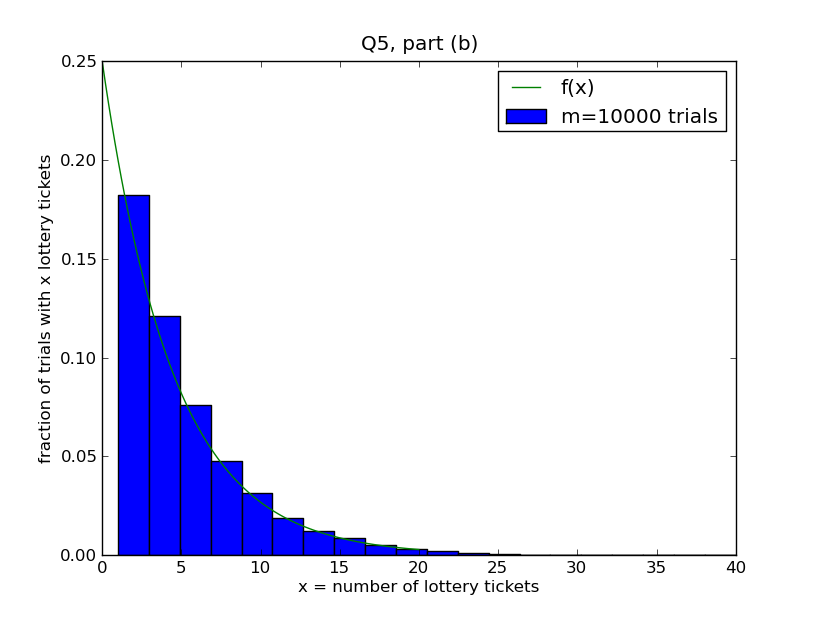
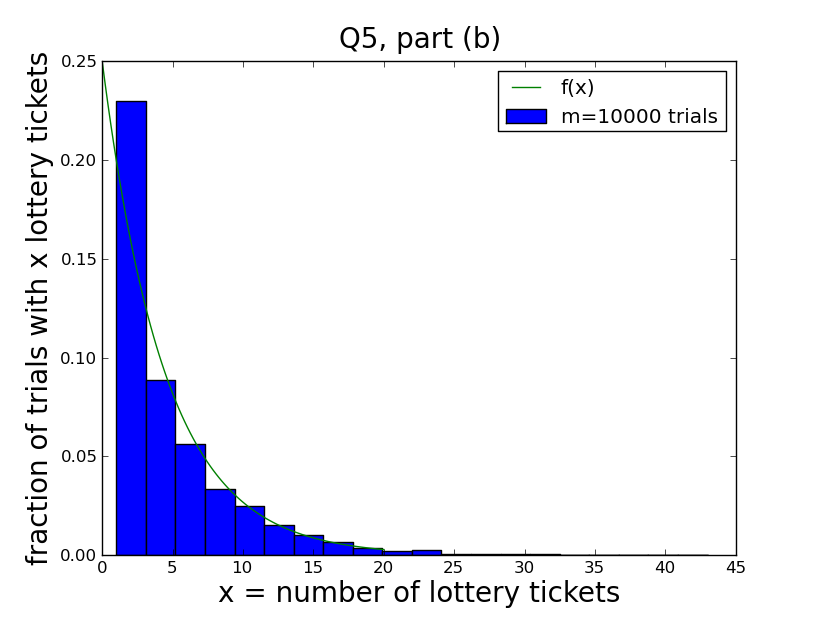
updating hw12 solutions

diff --git a/hws/12/hw12.tex b/hws/12/hw12.tex
@@ -10,6 +10,7 @@
 %% \usepackage{epstopdf}
 \usepackage{color}
 \usepackage[]{amsmath}
+\usepackage{cancel}
 %% \usepackage{graphicx}
 %% \usepackage{amssymb}
 %% \usepackage{parskip}
@@ -30,7 +31,7 @@
 \motivationtrue
 \motivationfalse
 \solutionstrue
-\solutionsfalse %flag for solutions
+%\solutionsfalse %flag for solutions
 
 \renewcommand{\answer}[1]{{\color{mydarkblue}\textbf{Solution:}#1}}
 \definecolor{mydarkblue}{rgb}{0,0.25,1}
@@ -67,14 +68,19 @@ P(X_1=1)P(X_2=1)P(X_3=1)P(X_4=1)
 \qpart
 \item Show that for constants $c$ and $d$, $\mathbb{E}[cX + dY] = c\mathbb{E}[X] + d \mathbb{E}[Y]$.
 
-\ifsolutions{ \answer{ Beginning with the LHS:
+\ifsolutions{ \answer{ Beginning with the left-hand-side:
 		\begin{align*}
-		\mathbb{E}[cX + dY] & = \sum_{x,y} (cx+dy) \mathbb{P}(x,y) \\
-		& = c\sum_{x,y} x \mathbb{P}(x,y) + d\sum_{x,y} y \mathbb{P}(x,y) \\
-		& = c \sum_x x \sum_y \mathbb{P}(x,y) + d \sum_y y \sum_x \mathbb{P}(x,y) \\
-		& = c\sum_x x \mathbb{P}(x) + d\sum_y y \mathbb{P}(y) \\
-		& = c\mathbb{E}[X] + d \mathbb{E}[Y].
+		\mathbb{E}[cX + dY] & = \sum_x \sum_y (cx+dy) \mathbb{P}(x,y) & \text{definition of expectation} \\
+		& = c\sum_x \sum_y x \mathbb{P}(x,y) + d\sum_x \sum_y y \mathbb{P}(x,y) & \text{expand and break up the sum into two parts} \\
+		& = c \sum_x x \sum_y \mathbb{P}(x,y) + d \sum_y y \sum_x \mathbb{P}(x,y) & \text{reorder terms that depend on $x$ or $y$} \\
+		& = c\sum_x x \mathbb{P}(x) + d\sum_y y \mathbb{P}(y) & \text{marginalize over $y$ in the first term and $x$ in the second term} \\
+		& = c\mathbb{E}[X] + d \mathbb{E}[Y]. & \text{arrive at the definition of expectation for $X$ and $Y$}
 		\end{align*}
+
+One of the key steps was using the fact that
+\[ \sum_{y} \mathbb{P}(x,y) = \mathbb{P}(x). \]
+
+This is often phrased as ``marginalizing out'' a variable, to retain only the variables of interest.  In this case we are marginalizing out $y$ and retaining only the probability of $x$.
 }}
 \fi
 
@@ -175,11 +181,6 @@ coming up heads) $n$ times. If this sounds familiar, it's been the focus of almo
 \end{enumerate}
 
 
-%\begin{enumerate}[a)]
-%\qpart 
-%\item 
-%\end{enumerate}
-
 \qns{Winning the Lottery} \\ Suppose that every day, Lily buys a
 lottery ticket, and will only stop buying lottery tickets when she
 wins.  Let $p$ be the probability that on any given day, Lily wins the
@@ -192,11 +193,10 @@ buys.
 \item What is the probability that Lily only buys 1 lottery ticket
   (i.e. $X=1$)?  What is the probability $X=2$?  What is the
   probability $X=x$?  We can denote this $f(x)$. 
-%This is the probability mass function for $X$, which we can denote $f(x)$.
 Show that $f(x)$ is a proper probability mass function.
 
 \ifsolutions{ \answer{ The probability of getting $(x-1)$ non-winning lottery tickets is $(1-p)^{x-1}$. Therefore the probability of getting $(x-1)$ non-winning tickets, then a winning ticket is
-	\[ P(X=x) = (1-p)^{x-1} p. \]
+	\[ f(x) = \mathbb{P}(X=x) = (1-p)^{x-1} p. \]
 	To show this is a valid probability distribution, we need to make sure the sum of $f(x)$ over all possible $x$ is 1. Using the formula for an infinite geometric series,
 	\[ \sum_{x=1}^{\infty} f(x) = p \sum_{x=1}^{\infty} (1-p)^{x-1} = p \cdot \frac{1}{1-(1-p)} = 1. \]
 }}\fi
@@ -209,27 +209,29 @@ Show that $f(x)$ is a proper probability mass function.
 \center
 \includegraphics[width=0.5\textwidth]{part_b.png}
 \end{figure}
-Example average: 5.0016.
+Example average: 5.057.
 }}\fi
 
 
-
-%\qpart
-%\item (Lab) Now, rescale the histogram so that the sum of all the bars is 1.  Then 
-
 \qpart
-\item Compute $\mathbb{E}(X)$, the expected value of $X$. How does this relate to the average number of lottery tickets from part (b)? (Hint: use the relation $\mathbb{E}(X) = (1-p) \mathbb{E}(X) + 1$, but first explain where this relation comes from.) %What is the expected value of $X$?
+\item Compute $\mathbb{E}(X)$, the expected value of $X$. How does this relate to the average number of lottery tickets from part (b)? (Hint: use the relation $\mathbb{E}(X) = (1-p) \mathbb{E}(X) + 1$, but first explain where this relation comes from.)
 
-%\ifsolutions{ \answer{ 
-%\[ \sum_{x=0}^{\infty} x f(x) = p\sum_{x=0}^{\infty} x(1-p)^x \]
-%}}\fi
+\ifsolutions{ \answer{ 
+This relation comes from the fact that with probability $p$, Lily will only need to buy 1 lottery ticket. But if she is not so lucky the first time, with probability $(1-p)$ she will have to try again.  When she tries again, her expectation from that point hasn't changed, so in a sense she is just starting over. Thus we get 1 plus the original expectation multiplied by the probability of failure on the first day:
+\[ \mathbb{E}(X) = 1 + (1-p) \mathbb{E}(X). \]
+
+Solving for $\mathbb{E}(X)$, we get
+\[ \mathbb{E}(X)- (1-p)\mathbb{E}(X) = 1 \quad \Rightarrow \quad \boxed{\mathbb{E}(X) = \frac{1}{p}} \] 
+
+This fits with our answer from part (b), since $\frac{1}{0.2} = 5$, and we got an average about about 5 days before Lily won the lottery.
+}}\fi
 
 \qpart
 \item Compute the cumulative mass function (cmf) for $X$, $F(x) = \mathbb{P}(X \leq x)$.
 
 \ifsolutions{ \answer{ 
-	We can use the formula for a finite geometric series to find $F(x)$,
-	\[ F(x) = p \sum_{y=1}^x (1-p)^{y-1} = p \cdot \frac{1 - (1-p)^x}{1 - (1-p)} = 1 - (1-p)^x. \]
+	To compute $F(x)$ we need to add up $f(y)$, for all the $y$ less than or equal to $x$. We can use the formula for a finite geometric series:
+	\[ F(x) = \sum_{y=1}^x f(x) = p \sum_{y=1}^x (1-p)^{y-1} = p \cdot \frac{1 - (1-p)^x}{1 - (1-p)} = 1 - (1-p)^x. \]
 }}\fi
 
 \qpart

diff --git a/hws/12/hw12_sol.py b/hws/12/hw12_sol.py
@@ -15,8 +15,7 @@ import sys
 #---------
 
 
-FONTSIZE = 24
-COLORS = ['b','k','g','r']
+FONTSIZE = 20
 
 
 #---------
@@ -66,9 +65,9 @@ def partB(p=0.2, m=10000):
     print("average is: " + str(sum(trialList)/float(len(trialList))))
 
     # set up plot
-    plt.xlabel("x = number of lottery tickets")
-    plt.ylabel("fraction of trials with x lottery tickets")
-    plt.title("Q5, part (b)")
+    plt.xlabel("x = number of lottery tickets", fontsize=FONTSIZE)
+    plt.ylabel("fraction of trials with x lottery tickets", fontsize=FONTSIZE)
+    plt.title("Q5, part (b)", fontsize=FONTSIZE)
     plt.legend()
     plt.show()
 
@@ -90,13 +89,11 @@ def partF(p=0.2, m=10000):
     plt.plot(x_values, [lotteryCmf(x,p) for x in x_values], label="F(x)")
 
     # set up plot
-    plt.xlabel("x = number of lottery tickets")
-    plt.ylabel("fraction of trials with x or fewer lottery tickets")
-    plt.title("Q5, part (e)")
+    plt.xlabel("x = number of lottery tickets", fontsize=FONTSIZE)
+    plt.ylabel("fraction of trials with x or fewer lottery tickets", fontsize=FONTSIZE)
+    plt.title("Q5, part (e)", fontsize=FONTSIZE)
     plt.legend()
     plt.show()
-    
-    
     
 
 #------
